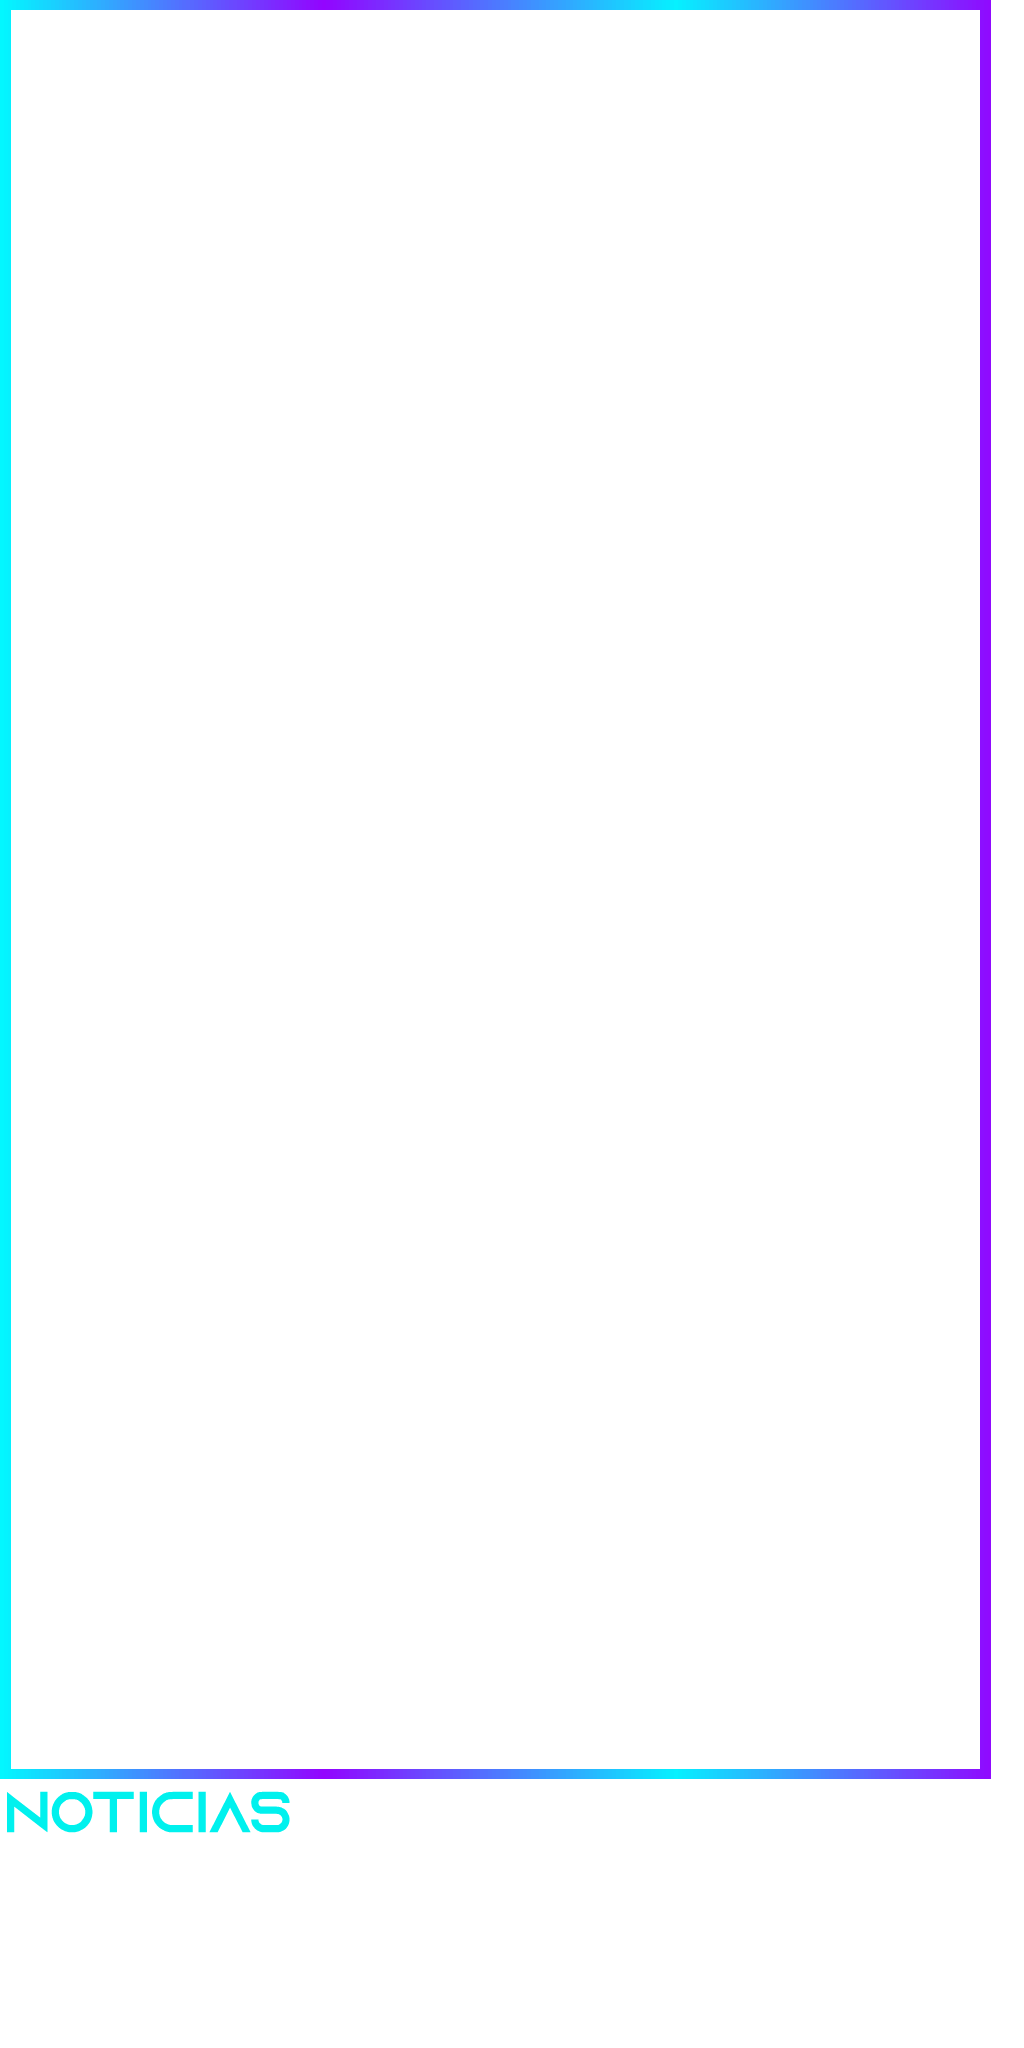
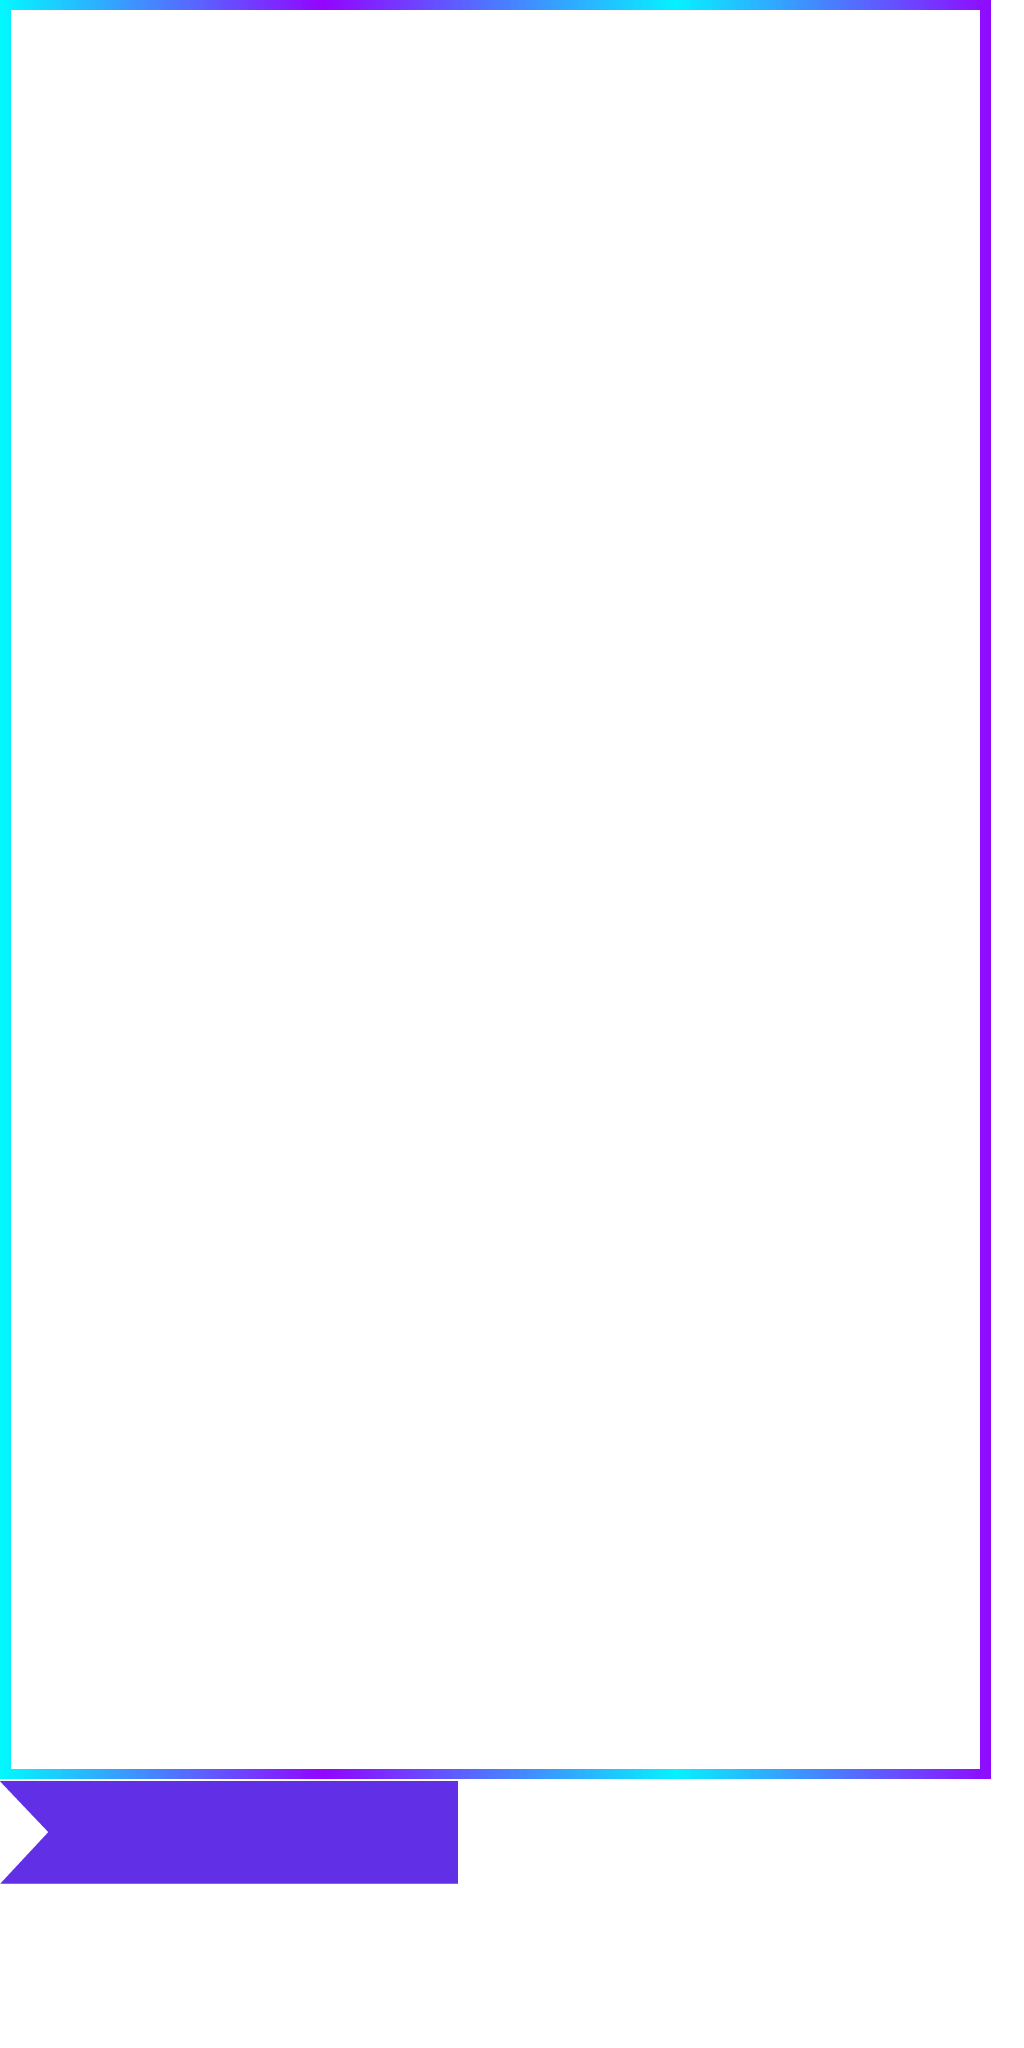
Add files via upload

Changed region(s): [[0.0, 0.8438, 0.4688, 0.9375]]

diff --git a/sng2/noticias/noticia.js b/sng2/noticias/noticia.js
@@ -3,7 +3,7 @@
 var p; // shortcut to reference prototypes
 var lib={};var ss={};var img={};
 lib.ssMetadata = [
-		{name:"noticia_atlas_1", frames: [[0,1781,297,66],[0,0,991,1779]]}
+		{name:"noticia_atlas_1", frames: [[460,1781,341,99],[0,1781,458,103],[0,0,991,1779]]}
 ];
 
 
@@ -27,16 +27,23 @@ lib.ssMetadata = [
 
 
 
-(lib.CachedBmp_10 = function() {
+(lib.CachedBmp_11 = function() {
 	this.initialize(ss["noticia_atlas_1"]);
 	this.gotoAndStop(0);
 }).prototype = p = new cjs.Sprite();
 
 
 
-(lib.Mapadebits1 = function() {
+(lib.CachedBmp_10 = function() {
 	this.initialize(ss["noticia_atlas_1"]);
 	this.gotoAndStop(1);
+}).prototype = p = new cjs.Sprite();
+
+
+
+(lib.Mapadebits1 = function() {
+	this.initialize(ss["noticia_atlas_1"]);
+	this.gotoAndStop(2);
 }).prototype = p = new cjs.Sprite();
 // helper functions:
 
@@ -57,7 +64,32 @@ function getMCSymbolPrototype(symbol, nominalBounds, frameBounds) {
 	}
 
 
-(lib.Símbolo5 = function(mode,startPosition,loop,reversed) {
+(lib.Símbolo17 = function(mode,startPosition,loop,reversed) {
+if (loop == null) { loop = true; }
+if (reversed == null) { reversed = false; }
+	var props = new Object();
+	props.mode = mode;
+	props.startPosition = startPosition;
+	props.labels = {};
+	props.loop = loop;
+	props.reversed = reversed;
+	cjs.MovieClip.apply(this,[props]);
+
+	// Capa_1
+	this.instance = new lib.CachedBmp_11();
+	this.instance.setTransform(-67.35,-16.7,0.3423,0.3423);
+
+	this.instance_1 = new lib.CachedBmp_10();
+	this.instance_1.setTransform(-94.75,-17.5,0.3423,0.3423);
+
+	this.timeline.addTween(cjs.Tween.get({}).to({state:[{t:this.instance_1},{t:this.instance}]}).wait(1));
+
+	this._renderFirstFrame();
+
+}).prototype = getMCSymbolPrototype(lib.Símbolo17, new cjs.Rectangle(-94.7,-17.5,156.8,35.3), null);
+
+
+(lib.Símbolo9 = function(mode,startPosition,loop,reversed) {
 if (loop == null) { loop = true; }
 if (reversed == null) { reversed = false; }
 	var props = new Object();
@@ -70,14 +102,83 @@ if (reversed == null) { reversed = false; }
 
 	// Capa_1
 	this.shape = new cjs.Shape();
[1 lines of base64/hex data omitted]
-	this.shape.setTransform(59.614,59.05);
+	this.shape.graphics.f("#8E0CFF").s().p("Al9AVIAAgpIL7AAIAAApg");
+	this.shape.setTransform(38.15,2.125);
 
 	this.timeline.addTween(cjs.Tween.get(this.shape).wait(1));
 
 	this._renderFirstFrame();
 
-}).prototype = getMCSymbolPrototype(lib.Símbolo5, new cjs.Rectangle(0,0,119.3,118.1), null);
+}).prototype = getMCSymbolPrototype(lib.Símbolo9, new cjs.Rectangle(0,0,76.3,4.3), null);
+
+
+(lib.Símbolo8 = function(mode,startPosition,loop,reversed) {
+if (loop == null) { loop = true; }
+if (reversed == null) { reversed = false; }
+	var props = new Object();
+	props.mode = mode;
+	props.startPosition = startPosition;
+	props.labels = {};
+	props.loop = loop;
+	props.reversed = reversed;
+	cjs.MovieClip.apply(this,[props]);
+
+	// Capa_1
+	this.shape = new cjs.Shape();
+	this.shape.graphics.f("#8E0CFF").s().p("EgwPAAVIAAgpMBgfAAAIAAApg");
+	this.shape.setTransform(308.775,2.125);
+
+	this.timeline.addTween(cjs.Tween.get(this.shape).wait(1));
+
+	this._renderFirstFrame();
+
+}).prototype = getMCSymbolPrototype(lib.Símbolo8, new cjs.Rectangle(0,0,617.6,4.3), null);
+
+
+(lib.Símbolo7 = function(mode,startPosition,loop,reversed) {
+if (loop == null) { loop = true; }
+if (reversed == null) { reversed = false; }
+	var props = new Object();
+	props.mode = mode;
+	props.startPosition = startPosition;
+	props.labels = {};
+	props.loop = loop;
+	props.reversed = reversed;
+	cjs.MovieClip.apply(this,[props]);
+
+	// Capa_1
+	this.shape = new cjs.Shape();
+	this.shape.graphics.f("#8E0CFF").s().p("ABDh/ICUgLQgzCLgUBxIiZAZgAiJh/ICTgLQgyCLgUBxIiaAZg");
+	this.shape.setTransform(21.525,13.85);
+
+	this.timeline.addTween(cjs.Tween.get(this.shape).wait(1));
+
+	this._renderFirstFrame();
+
+}).prototype = getMCSymbolPrototype(lib.Símbolo7, new cjs.Rectangle(0,0,43.1,27.7), null);
+
+
+(lib.Símbolo6 = function(mode,startPosition,loop,reversed) {
+if (loop == null) { loop = true; }
+if (reversed == null) { reversed = false; }
+	var props = new Object();
+	props.mode = mode;
+	props.startPosition = startPosition;
+	props.labels = {};
+	props.loop = loop;
+	props.reversed = reversed;
+	cjs.MovieClip.apply(this,[props]);
+
+	// Capa_1
+	this.shape = new cjs.Shape();
+	this.shape.graphics.f("#8E0CFF").s().p("AjDGNQgUgVAAggQAAgPAFgOQAOgwAngYQAogYAkAAQAmABAZAVQAZATAAAfQAAASgHAQQgUAtgkAXQgiAXgwADQglAAgUgWgAiLAyQAPhIAUhWIAiiPIAThSQAggTAsgQQAtgPAogMQAogKAbgFIAngIQgQAcgmBLQgnBNgpBWQgqBXghBOQghBPgIAjIh8AZQAEgfAPhHg");
+	this.shape.setTransform(21.575,41.9);
+
+	this.timeline.addTween(cjs.Tween.get(this.shape).wait(1));
+
+	this._renderFirstFrame();
+
+}).prototype = getMCSymbolPrototype(lib.Símbolo6, new cjs.Rectangle(0,0,43.2,83.8), null);
 
 
 (lib.Símbolo4 = function(mode,startPosition,loop,reversed) {
@@ -93,7 +194,7 @@ if (reversed == null) { reversed = false; }
 
 	// Capa_1
 	this.shape = new cjs.Shape();
-	this.shape.graphics.f("#000000").s().p("EgyTAcTMAAAg4lMBknAAAMAAAA4lg");
+	this.shape.graphics.f("#333333").s().p("EgyTAcTMAAAg4lMBknAAAMAAAA4lg");
 	this.shape.setTransform(322,181.1);
 
 	this.timeline.addTween(cjs.Tween.get(this.shape).wait(1));
@@ -155,17 +256,6 @@ if (reversed == null) { reversed = false; }
 	this.frame_0 = function() {
 		// Cargar dato desde el almacenamiento local del navegador
 		this.mirutax.text = localStorage.getItem('clave');
-		this.btback.addEventListener("click", abrirLink2.bind(this));
-		
-		function abrirLink2() {
-			
-		
-				
-				window.location.href = "noticias.html";
-				
-				
-						
-		}
 	}
 	this.frame_4 = function() {
 		this.stop();
@@ -175,77 +265,110 @@ if (reversed == null) { reversed = false; }
 			/////carga de textos///////
 			var cargar1 = new createjs.LoadQueue(true);
 			var cargar2 = new createjs.LoadQueue(true);
+			var cargar3 = new createjs.LoadQueue(true);
 		
 			cargar1.on('complete', completeF, this);
 			cargar2.on('complete', completeF, this);
+			cargar3.on('complete', completeF, this);
 		
 			var ruta1 = "publicaciones/"+miruta+"/titulo.txt";
 			var ruta2 = "publicaciones/"+miruta+"/texto.txt";
+			var ruta3 = "publicaciones/"+miruta+"/texto2.txt";
 		
 			cargar1.loadFile(ruta1);
 			cargar2.loadFile(ruta2);
+			cargar3.loadFile(ruta3);
+			
 		
 				function completeF(e) {
 			
 					this.titulo.text = cargar1.getResult(ruta1);
-					this.texto.text = cargar2.getResult(ruta2);
+					this.texto1.text = cargar2.getResult(ruta2);
+					this.texto2.text = cargar3.getResult(ruta3);
 			
 			}
 			
 		/////carga de imagen///////
 		var foto = new createjs.Bitmap("publicaciones/"+miruta+"/imagen.jpg");
+		var foto2 = new createjs.Bitmap("publicaciones/"+miruta+"/imagen2.jpg");
 		
 		this.foto.foto.addChild(foto);
+		this.foto2.foto.addChild(foto2);
 	}
 
 	// actions tween:
 	this.timeline.addTween(cjs.Tween.get(this).call(this.frame_0).wait(4).call(this.frame_4).wait(1));
 
 	// Capa_1
-	this.btback = new lib.Símbolo5();
-	this.btback.name = "btback";
-	this.btback.setTransform(1341.95,1252.35,1,1,0,0,0,59.6,59.1);
+	this.instance = new lib.Símbolo17();
+	this.instance.setTransform(1003.45,1323.3,1.4606,1.4606,0,0,0,60.1,0);
 
-	this.titulo = new cjs.Text("", "bold 35px 'Arial Black'", "#0CE4FF");
+	this.instance_1 = new lib.Símbolo9();
+	this.instance_1.setTransform(889.7,147.4,0.9324,1,0,0,0,0.1,0);
+
+	this.instance_2 = new lib.Símbolo8();
+	this.instance_2.setTransform(30.65,147.25,1.1881,1);
+
+	this.instance_3 = new lib.Símbolo9();
+	this.instance_3.setTransform(193.2,953.4,2.0924,1,0,0,0,76.4,2.1);
+
+	this.instance_4 = new lib.Símbolo8();
+	this.instance_4.setTransform(959.8,955.5,1.1721,1,0,0,0,617.6,4.2);
+
+	this.instance_5 = new lib.Símbolo7();
+	this.instance_5.setTransform(196.5,946.65,0.9013,1.2037,0,0,0,0,11.6);
+
+	this.texto2 = new cjs.Text("\n", "22px 'Arial'", "#FFFFFF");
+	this.texto2.name = "texto2";
+	this.texto2.lineHeight = 27;
+	this.texto2.lineWidth = 525;
+	this.texto2.parent = this;
+	this.texto2.setTransform(31.9,978.4868,0.8354,0.8354);
+
+	this.instance_6 = new lib.Símbolo6();
+	this.instance_6.setTransform(877.15,133.3,3.9372,3.9372,0,0,0,43.2,0.1);
+
+	this.foto2 = new lib.Símbolo3();
+	this.foto2.name = "foto2";
+	this.foto2.setTransform(483.5,979,0.7434,0.7442,0,0,0,0.1,0.2);
+
+	this.titulo = new cjs.Text("", "bold 32px 'Arial Black'", "#0CE4FF");
 	this.titulo.name = "titulo";
-	this.titulo.lineHeight = 51;
+	this.titulo.lineHeight = 47;
 	this.titulo.lineWidth = 1110;
 	this.titulo.parent = this;
-	this.titulo.setTransform(31.9,71.7401,0.8354,0.8354);
+	this.titulo.setTransform(31.9,23.8901,0.8354,0.8354);
 
-	this.texto = new cjs.Text("", "25px 'Arial'", "#FFFFFF");
-	this.texto.name = "texto";
-	this.texto.lineHeight = 30;
-	this.texto.lineWidth = 1114;
-	this.texto.parent = this;
-	this.texto.setTransform(32.8,768.5368,0.8354,0.8354);
-
-	this.instance = new lib.CachedBmp_10();
-	this.instance.setTransform(17.9,14.35,0.5,0.5);
+	this.texto1 = new cjs.Text("", "22px 'Arial'", "#FFFFFF");
+	this.texto1.name = "texto1";
+	this.texto1.lineHeight = 27;
+	this.texto1.lineWidth = 1114;
+	this.texto1.parent = this;
+	this.texto1.setTransform(31.9,548.8868,0.8354,0.8354);
 
 	this.mirutax = new cjs.Text("", "32px 'Arial'", "#FFFFFF");
 	this.mirutax.name = "mirutax";
 	this.mirutax.lineHeight = 38;
 	this.mirutax.lineWidth = 164;
 	this.mirutax.parent = this;
-	this.mirutax.setTransform(818.85,-57.5);
+	this.mirutax.setTransform(1061.95,1334.8);
 
 	this.foto = new lib.Símbolo3();
 	this.foto.name = "foto";
-	this.foto.setTransform(30.4,229.3,1.4533,1.4533,0,0,0,0.1,0.1);
+	this.foto.setTransform(30.35,165.7,0.9984,0.9995,0,0,0,0.1,0.1);
 
-	this.timeline.addTween(cjs.Tween.get({}).to({state:[{t:this.foto},{t:this.mirutax},{t:this.instance},{t:this.texto},{t:this.titulo},{t:this.btback}]}).wait(5));
+	this.timeline.addTween(cjs.Tween.get({}).to({state:[{t:this.foto},{t:this.mirutax},{t:this.texto1},{t:this.titulo},{t:this.foto2},{t:this.instance_6},{t:this.texto2},{t:this.instance_5},{t:this.instance_4},{t:this.instance_3},{t:this.instance_2},{t:this.instance_1},{t:this.instance}]}).wait(5));
 
 	// Capa_2
-	this.instance_1 = new lib.Mapadebits1();
-	this.instance_1.setTransform(4,7,1,0.7841);
+	this.instance_7 = new lib.Mapadebits1();
+	this.instance_7.setTransform(4,7,1,0.7841);
 
-	this.timeline.addTween(cjs.Tween.get(this.instance_1).wait(5));
+	this.timeline.addTween(cjs.Tween.get(this.instance_7).wait(5));
 
 	this._renderFirstFrame();
 
 }).prototype = p = new lib.AnMovieClip();
-p.nominalBounds = new cjs.Rectangle(504,640.5,897.5999999999999,761.4000000000001);
+p.nominalBounds = new cjs.Rectangle(504,707,724.0999999999999,694.9000000000001);
 // library properties:
 lib.properties = {
 	id: 'E42EECE00DF5554C85AAC680B1F9BF69',
@@ -255,7 +378,7 @@ lib.properties = {
 	color: "#0A001D",
 	opacity: 1.00,
 	manifest: [
-		{src:"images/noticia_atlas_1.png?1708472699517", id:"noticia_atlas_1"}
+		{src:"images/noticia_atlas_1.png?1708571892409", id:"noticia_atlas_1"}
 	],
 	preloads: []
 };

diff --git a/sng2/noticias/noticia.html b/sng2/noticias/noticia.html
@@ -21,7 +21,7 @@
   }
 </style>
 <script src="https://code.createjs.com/1.0.0/createjs.min.js"></script>
-<script src="noticia.js?1708472699562"></script>
+<script src="noticia.js?1708571892451"></script>
 <script>
 var canvas, stage, exportRoot, anim_container, dom_overlay_container, fnStartAnimation;
 function init() {
